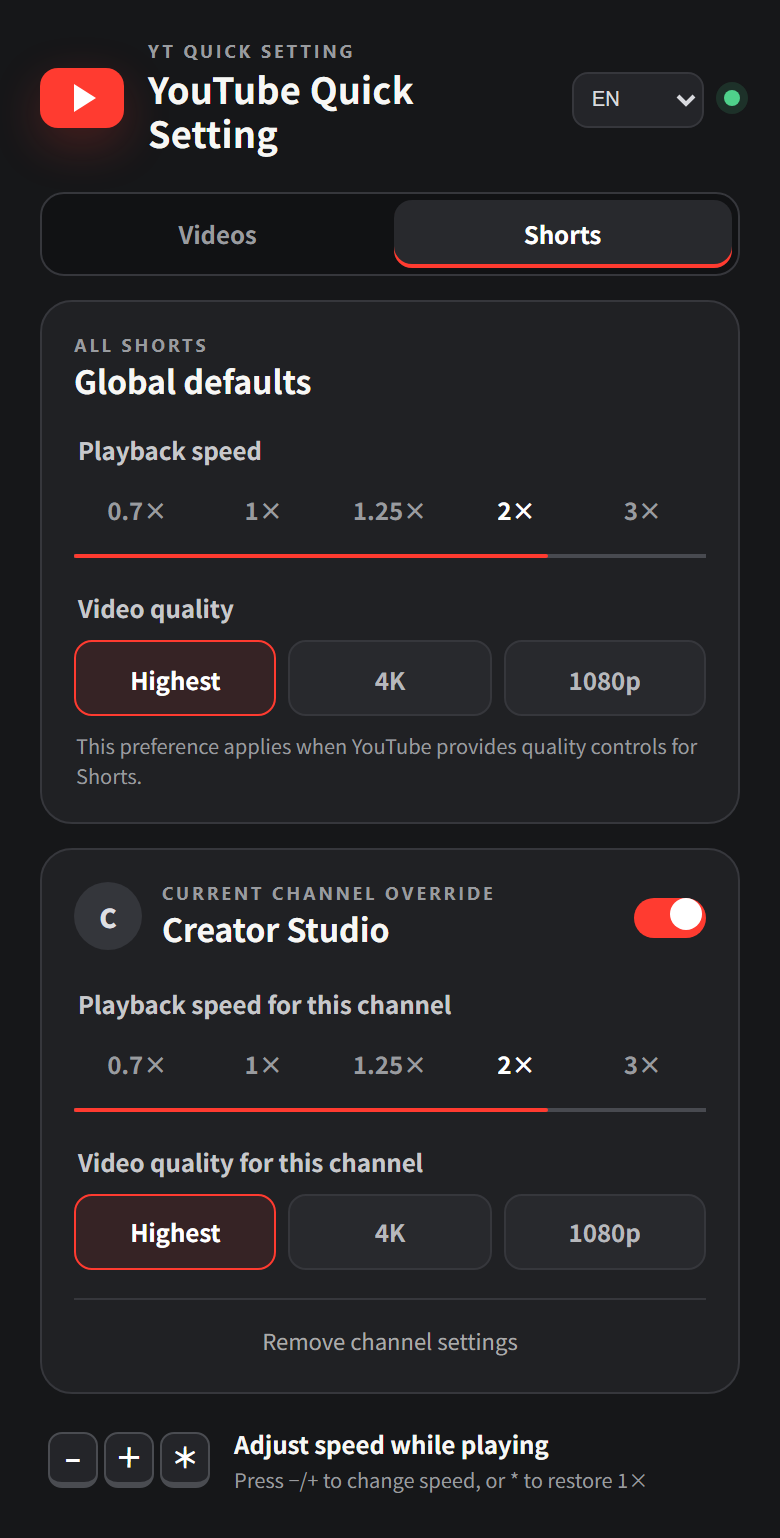
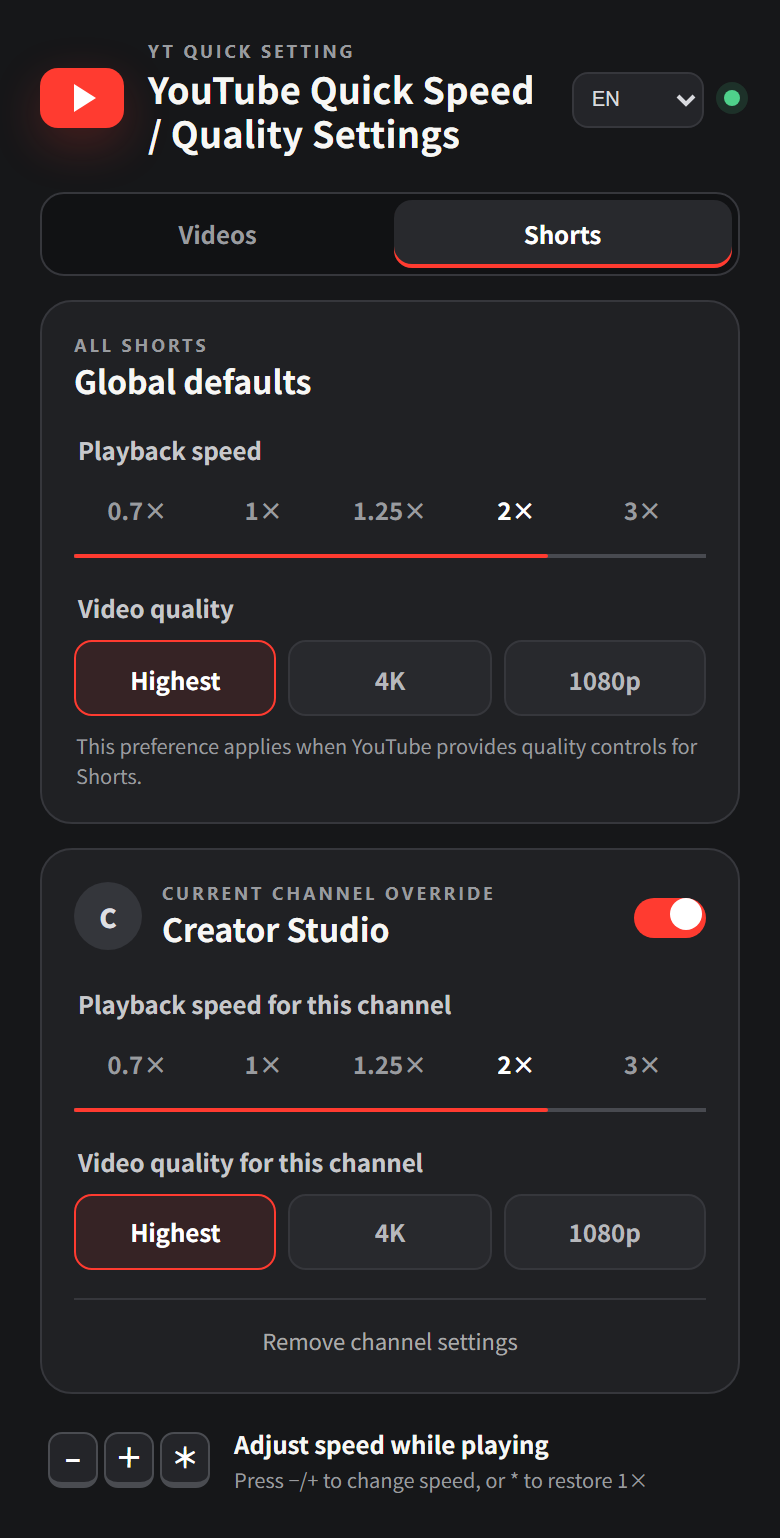
Rename extension for speed and quality focus

Changed region(s): [[0.1846, 0.0312, 0.6769, 0.1248]]

diff --git a/scripts/render-marketing-assets.js b/scripts/render-marketing-assets.js
@@ -14,7 +14,8 @@ const locales = {
     title: "每支影片，都用你習慣的速度與畫質",
     subtitle: "自動套用全域、Shorts 與頻道專屬設定",
     chips: ["頻道優先", "Shorts 獨立", "1080p Premium", "＋／－ 調速", "＊ 回復 1×"],
-    eyebrow: "YOUTUBE QUICK SETTING"
+    eyebrow: "YOUTUBE QUICK SETTING",
+    brandName: "YouTube 快速設定速度 / 畫質"
   },
   en: {
     language: "en",
@@ -23,7 +24,8 @@ const locales = {
     title: "Every video, at your speed and quality",
     subtitle: "Automatic defaults for videos, Shorts, and individual channels",
     chips: ["Channel overrides", "Separate Shorts", "1080p Premium", "+ / − speed", "* resets to 1×"],
-    eyebrow: "YOUTUBE QUICK SETTING"
+    eyebrow: "YOUTUBE QUICK SETTING",
+    brandName: "YouTube Quick Speed / Quality Settings"
   },
   ja: {
     language: "ja",
@@ -32,7 +34,8 @@ const locales = {
     title: "いつもの速度と画質を、すべての動画に",
     subtitle: "通常動画・ショート・チャンネル別設定を自動適用",
     chips: ["チャンネル優先", "ショート個別設定", "1080p Premium", "＋／－ で速度変更", "＊ で 1×"],
-    eyebrow: "YOUTUBE QUICK SETTING"
+    eyebrow: "YOUTUBE QUICK SETTING",
+    brandName: "YouTube 速度 / 画質クイック設定"
   }
 };
 
@@ -96,14 +99,14 @@ async function renderHero(browser, localeKey, locale, popupPath) {
       .noise{position:absolute;inset:0;z-index:1;opacity:.16;background-image:radial-gradient(rgba(255,255,255,.2) .7px,transparent .7px);background-size:6px 6px;mix-blend-mode:soft-light}
       main{position:relative;z-index:2;display:grid;grid-template-columns:1.2fr .8fr;gap:180px;align-items:center;width:100%;height:100%;padding:190px 260px 160px 280px}
       .brand{display:flex;align-items:center;gap:34px;margin-bottom:130px}.brand img{width:112px;height:112px;border-radius:28px;box-shadow:0 24px 70px rgba(255,59,48,.35)}
-      .brand strong{font-size:46px;letter-spacing:.01em}.eyebrow{margin:0 0 38px;color:#ff5d54;font-size:26px;font-weight:800;letter-spacing:.22em}
+      .brand strong{max-width:980px;font-size:42px;line-height:1.2;letter-spacing:.01em}.eyebrow{margin:0 0 38px;color:#ff5d54;font-size:26px;font-weight:800;letter-spacing:.22em}
       h1{max-width:2050px;margin:0;font-size:142px;line-height:1.08;letter-spacing:-.055em;text-wrap:balance}
       .subtitle{max-width:1750px;margin:52px 0 66px;color:#c7c9ce;font-size:50px;line-height:1.45}
       .chips{display:flex;flex-wrap:wrap;gap:20px}.chips span{padding:18px 28px;border:1px solid rgba(255,255,255,.2);border-radius:999px;background:rgba(31,33,37,.7);box-shadow:inset 0 1px rgba(255,255,255,.08);font-size:28px;font-weight:700;backdrop-filter:blur(18px)}
       .shot{position:relative;justify-self:end;transform:rotate(2deg)}.shot:before{content:"";position:absolute;inset:10% -13%;border-radius:50%;background:#ff3b30;filter:blur(150px);opacity:.27}
       .shot img{position:relative;width:800px;border:2px solid rgba(255,255,255,.18);border-radius:34px;box-shadow:0 90px 180px rgba(0,0,0,.66),0 0 0 18px rgba(255,255,255,.025)}
       footer{position:absolute;z-index:3;left:282px;right:260px;bottom:86px;display:flex;justify-content:space-between;color:#8d9097;font-size:24px;letter-spacing:.06em}
-    </style></head><body><div class="noise"></div><main><section><div class="brand"><img src="${icon}"><strong>YouTube Quick Setting</strong></div><p class="eyebrow">${locale.eyebrow}</p><h1>${locale.title}</h1><p class="subtitle">${locale.subtitle}</p><div class="chips">${chips}</div></section><div class="shot"><img src="${popup}"></div></main><footer><span>CHROME EXTENSION · v1.1.0</span><span>繁體中文 · ENGLISH · 日本語</span></footer></body></html>`);
+    </style></head><body><div class="noise"></div><main><section><div class="brand"><img src="${icon}"><strong>${locale.brandName}</strong></div><p class="eyebrow">${locale.eyebrow}</p><h1>${locale.title}</h1><p class="subtitle">${locale.subtitle}</p><div class="chips">${chips}</div></section><div class="shot"><img src="${popup}"></div></main><footer><span>CHROME EXTENSION · v1.1.1</span><span>繁體中文 · ENGLISH · 日本語</span></footer></body></html>`);
   await page.screenshot({ path: path.join(outputDir, `promo-${localeKey}-4k.png`), animations: "disabled" });
   await page.close();
 }

diff --git a/popup.js b/popup.js
@@ -9,7 +9,7 @@ const LANGUAGES = ["system", "zh-Hant", "en", "ja"];
 
 const MESSAGES = {
   "zh-Hant": {
-    appTitle: "YouTube 快速設定", system: "系統", regular: "一般影片", shorts: "Shorts",
+    appTitle: "YouTube 快速設定速度 / 畫質", system: "系統", regular: "一般影片", shorts: "Shorts",
     typeLabel: "影片類型", allRegular: "所有一般影片", allShorts: "所有 Shorts",
     globalHeading: "全域預設", saved: "已儲存", speed: "播放速度", quality: "影片畫質",
     channelKicker: "目前頻道優先", loadingChannel: "正在讀取頻道…", noChannel: "尚未偵測到影片頻道",
@@ -22,7 +22,7 @@ const MESSAGES = {
     shortsQualityNote: "YouTube Shorts 提供畫質控制時才會套用此偏好。"
   },
   en: {
-    appTitle: "YouTube Quick Setting", system: "System", regular: "Videos", shorts: "Shorts",
+    appTitle: "YouTube Quick Speed / Quality Settings", system: "System", regular: "Videos", shorts: "Shorts",
     typeLabel: "Video type", allRegular: "All standard videos", allShorts: "All Shorts",
     globalHeading: "Global defaults", saved: "Saved", speed: "Playback speed", quality: "Video quality",
     channelKicker: "Current channel override", loadingChannel: "Loading channel…", noChannel: "No video channel detected",
@@ -35,7 +35,7 @@ const MESSAGES = {
     shortsQualityNote: "This preference applies when YouTube provides quality controls for Shorts."
   },
   ja: {
-    appTitle: "YouTube クイック設定", system: "システム", regular: "通常動画", shorts: "ショート",
+    appTitle: "YouTube 速度 / 画質クイック設定", system: "システム", regular: "通常動画", shorts: "ショート",
     typeLabel: "動画タイプ", allRegular: "すべての通常動画", allShorts: "すべてのショート",
     globalHeading: "全体の既定値", saved: "保存済み", speed: "再生速度", quality: "動画の画質",
     channelKicker: "現在のチャンネルを優先", loadingChannel: "チャンネルを読み込み中…", noChannel: "動画のチャンネルを検出できません",

diff --git a/tests/popup-ui.test.js b/tests/popup-ui.test.js
@@ -27,7 +27,7 @@ const { chromium } = require("playwright");
 
   await page.goto(`file:///${path.resolve("popup.html").replaceAll("\\", "/")}`);
   await page.waitForSelector("#globalSpeed .option-button");
-  assert.equal(await page.locator("#appTitle").innerText(), "YouTube クイック設定");
+  assert.equal(await page.locator("#appTitle").innerText(), "YouTube 速度 / 画質クイック設定");
   assert.equal(await page.locator("#globalSpeed .selected").innerText(), "1×");
 
   await page.locator("[data-content-type='shorts']").click();
@@ -36,7 +36,7 @@ const { chromium } = require("playwright");
   assert.equal(await page.locator("#shortsQualityNote").isVisible(), true);
 
   await page.locator("#languageSelect").selectOption("en");
-  assert.equal(await page.locator("#appTitle").innerText(), "YouTube Quick Setting");
+  assert.equal(await page.locator("#appTitle").innerText(), "YouTube Quick Speed / Quality Settings");
   assert.match(await page.locator("#shortcutDescription").innerText(), /restore 1×/);
 
   const panel = await page.locator(".panel").boundingBox();

diff --git a/popup.html b/popup.html
@@ -3,7 +3,7 @@
   <head>
     <meta charset="utf-8">
     <meta name="viewport" content="width=device-width, initial-scale=1">
-    <title>YouTube Quick Setting</title>
+    <title>YouTube Quick Speed / Quality Settings</title>
     <link rel="stylesheet" href="popup.css">
   </head>
   <body>
@@ -12,7 +12,7 @@
         <div class="brand-mark" aria-hidden="true"><span></span></div>
         <div>
           <p class="eyebrow">YT QUICK SETTING</p>
-          <h1 id="appTitle">YouTube 快速設定</h1>
+          <h1 id="appTitle">YouTube 快速設定速度 / 畫質</h1>
         </div>
         <div class="header-actions">
           <label class="language-picker">

diff --git a/docs/releases/v1.1.1.md b/docs/releases/v1.1.1.md
@@ -1,0 +1,22 @@
+# YouTube 快速設定速度 / 畫質 v1.1.1
+
+## 繁體中文
+
+- 程式名稱更新為「YouTube 快速設定速度 / 畫質」。
+- 同步更新繁體中文、英文、日文介面名稱。
+- 更新三語 README、操作畫面與 4K 宣傳素材。
+- 功能與 v1.1.0 相同，既有設定可直接沿用。
+
+## English
+
+- Renamed the extension to **YouTube Quick Speed / Quality Settings**.
+- Updated the Traditional Chinese, English, and Japanese interface names.
+- Refreshed all three READMEs, UI screenshots, and 4K promotional assets.
+- Existing settings remain compatible with v1.1.0.
+
+## 日本語
+
+- 拡張機能名を「YouTube 速度 / 画質クイック設定」に変更しました。
+- 繁体字中国語、英語、日本語の表示名を更新しました。
+- 3言語の README、操作画面、4K プロモーション素材を更新しました。
+- v1.1.0 の既存設定をそのまま利用できます。

diff --git a/README.ja.md b/README.ja.md
@@ -1,8 +1,8 @@
-# YouTube クイック設定
+# YouTube 速度 / 画質クイック設定
 
 [繁體中文](README.md) · [English](README.en.md) · [日本語](README.ja.md)
 
-![YouTube クイック設定 4K プロモーション画像](docs/images/promo-ja-4k.png)
+![YouTube 速度・画質クイック設定 4K プロモーション画像](docs/images/promo-ja-4k.png)
 
 YouTube の通常動画とショートに、再生速度・画質・チャンネル別設定を自動適用する Chrome 拡張機能です。
 

diff --git a/README.en.md b/README.en.md
@@ -1,8 +1,8 @@
-# YouTube Quick Setting
+# YouTube Quick Speed / Quality Settings
 
 [繁體中文](README.md) · [English](README.en.md) · [日本語](README.ja.md)
 
-![YouTube Quick Setting 4K promotional image](docs/images/promo-en-4k.png)
+![YouTube Quick Speed and Quality Settings 4K promotional image](docs/images/promo-en-4k.png)
 
 A Chrome extension that automatically applies playback speed, video quality, and channel-specific preferences to standard YouTube videos and Shorts.
 

diff --git a/README.md b/README.md
@@ -1,8 +1,8 @@
-# YouTube 快速設定
+# YouTube 快速設定速度 / 畫質
 
 [繁體中文](README.md) · [English](README.en.md) · [日本語](README.ja.md)
 
-![YouTube 快速設定 4K 宣傳圖](docs/images/promo-zh-4k.png)
+![YouTube 快速設定速度與畫質 4K 宣傳圖](docs/images/promo-zh-4k.png)
 
 自動為 YouTube 一般影片與 Shorts 套用播放速度、畫質與頻道專屬設定的 Chrome 擴充功能。
 
